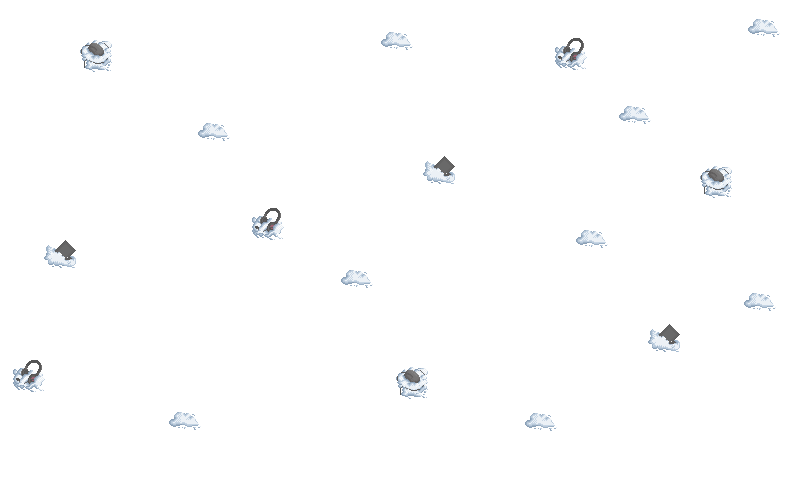
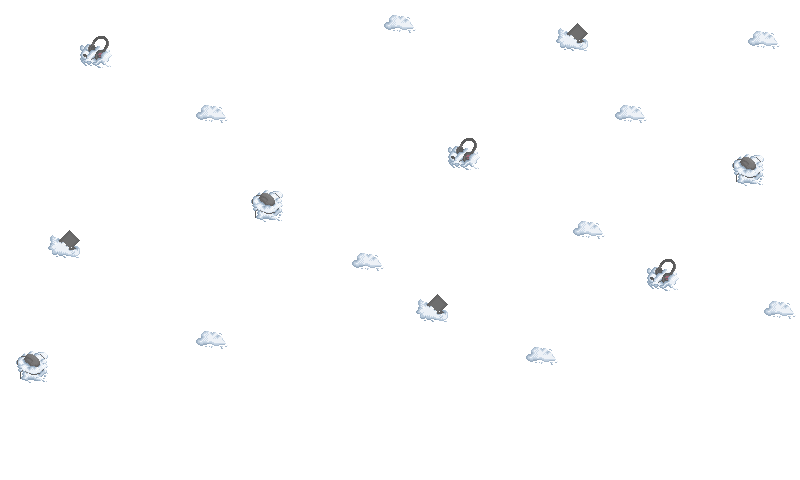
Flying obstacle and new backgrounds (not used yet)

diff --git a/core/src/fi/tamk/tiko/orion/sleeprunner/utilities/MapGenerator.java b/core/src/fi/tamk/tiko/orion/sleeprunner/utilities/MapGenerator.java
@@ -7,6 +7,7 @@ import com.badlogic.gdx.utils.Array;
 
 import fi.tamk.tiko.orion.sleeprunner.data.Constants;
 import fi.tamk.tiko.orion.sleeprunner.objects.FlyPowerUpObject;
+import fi.tamk.tiko.orion.sleeprunner.objects.FlyingSpikesObject;
 import fi.tamk.tiko.orion.sleeprunner.objects.GameObject;
 import fi.tamk.tiko.orion.sleeprunner.objects.GroundObject;
 import fi.tamk.tiko.orion.sleeprunner.objects.MaskPowerUpObject;
@@ -119,15 +120,42 @@ public class MapGenerator {
      *
      * @param grid The 2D integer map grid.
      * @param x    Current x position. (grid index)
+     * @return     True if the method NOT insert power up block.
      */
-    private static void generatePowerUpBlock( int[][] grid, int x ) {
-        // Random power up
-        int powerUp = MathUtils.random( 4, 6 );
-        // Random power ups y position.
-        int y = MathUtils.random( 5, 8 );
-        if ( isSymbolAtPosition( grid, Constants.EMPTY_BLOCK, x, y ) ) {
-            grid[ y ][ x ] = powerUp;
+    private static boolean generatePowerUpBlock( int[][] grid, int x ) {
+        int random = MathUtils.random( 0, 2 ); // Probability to get some power up.
+        if ( random == 0 ) {
+            // Random power up
+            int powerUp = MathUtils.random( 4, 6 );
+            // Random power ups y position.
+            int y = MathUtils.random( 5, 8 );
+            if ( isSymbolAtPosition( grid, Constants.EMPTY_BLOCK, x, y ) ) {
+                grid[ y ][ x ] = powerUp;
+                return false;
+            }
         }
+        return true;
+    }
+
+    /**
+     * Tries to generate flying spikes to the position.
+     *
+     * @param   grid  The 2D integer map grid.
+     * @param   x     Current x position. (grid index)
+     * @return        True if the method NOT insert flying spike block.
+     */
+    private static boolean generateFlyingSpikeBlock( int[][] grid, int x ) {
+        int random = MathUtils.random(0, 3); // Probability to get flying spikes.
+        if (random == 0) {
+            // Try to make spikes block. There must be ground block beneath.
+            if (isSymbolAtPosition(grid, Constants.GROUND_BLOCK, x, 0)) {
+                // Random the flying spikes y position.
+                int y = MathUtils.random( 3, 5 );
+                grid[y][x] = Constants.FLYING_SPIKES_BLOCK;
+                return false;
+            }
+        }
+        return true;
     }
 
     /**
@@ -137,7 +165,7 @@ public class MapGenerator {
      * @param x     Current x position. (grid index)
      */
     private static void generateSpikeBlock( int[][] grid, int x ) {
-        int random = MathUtils.random(0, 3); // Probability to get spikes. (Keep in mind empty blocks)
+        int random = MathUtils.random(0, 2); // Probability to get spikes. (Keep in mind empty blocks)
         if (random == 0) {
             // Try to make spikes block. There must be empty block.
             if (isSymbolAtPosition(grid, Constants.EMPTY_BLOCK, x, 0)) {
@@ -161,6 +189,7 @@ public class MapGenerator {
         boolean isFirstMapChunk = ( previousMapChunk == null );
         int[][] grid = new int[ Constants.CHUNK_MAX_TILES_HEIGHT ][ Constants.CHUNK_MAX_TILES_WIDTH ];
         int[] values = new int[] { mapChunk.getMinEmptyBlocks(), mapChunk.getMaxEmptyBlocks(), mapChunk.getMinGroundBlocks(), mapChunk.getMaxGroundBlocks() };
+        boolean canContainFlyingObstacle = mapChunk.canContainFlyingObstacle();
         boolean canContainPowerup = mapChunk.canContainPowerup();
         for ( int i = 0; i < Constants.CHUNK_MAX_TILES_WIDTH; i++ ) {
             if (isFirstMapChunk || mapChunk.getChunkNumber() % Constants.DIFFICULTY_CHANGE_INTERVAL == 0) {
@@ -177,9 +206,11 @@ public class MapGenerator {
             } else {
                 generateGroundBlock(grid, i, values[0], values[1], values[2], values[3]);
                 generateSpikeBlock(grid, i);
+                if ( canContainFlyingObstacle ) {
+                    canContainFlyingObstacle = generateFlyingSpikeBlock( grid, i );
+                }
                 if ( canContainPowerup ) {
-                    generatePowerUpBlock(grid, i);
-                    canContainPowerup = false;
+                    canContainPowerup = generatePowerUpBlock(grid, i);
                 }
             }
             // If previous map chunk ended with ground force empty block to this chunk's start.
@@ -264,6 +295,8 @@ public class MapGenerator {
             gameObject = new FlyPowerUpObject( world, centerX, centerY, meterWidth, meterHeight );
         } else if ( symbol == Constants.POWERUP_MASK_BLOCK ) {
             gameObject = new MaskPowerUpObject( world, centerX, centerY, meterWidth, meterHeight );
+        } else if ( symbol == Constants.FLYING_SPIKES_BLOCK ) {
+            gameObject = new FlyingSpikesObject( world, centerX, centerY, meterWidth, meterHeight );
         }
         return gameObject;
     }

diff --git a/core/src/fi/tamk/tiko/orion/sleeprunner/objects/FlyingSpikesObject.java b/core/src/fi/tamk/tiko/orion/sleeprunner/objects/FlyingSpikesObject.java
@@ -1,0 +1,60 @@
+package fi.tamk.tiko.orion.sleeprunner.objects;
+
+import com.badlogic.gdx.graphics.g2d.Batch;
+import com.badlogic.gdx.graphics.g2d.TextureRegion;
+import com.badlogic.gdx.math.Vector2;
+import com.badlogic.gdx.physics.box2d.BodyDef;
+import com.badlogic.gdx.physics.box2d.World;
+
+import fi.tamk.tiko.orion.sleeprunner.data.Constants;
+import fi.tamk.tiko.orion.sleeprunner.data.UserData;
+
+/**
+ * Spikes game object, its width is random.
+ */
+public class FlyingSpikesObject extends GameObject {
+
+    /**
+     * Texture for flying spike obstacle.
+     */
+
+    public static final TextureRegion FLYING_SPIKE_TEXTURE = Constants.TILESET_SPRITES[3][2];
+
+    private Vector2 flyingSpikeSpeed = new Vector2(-3.5f, 0);
+
+    /**
+     * Constructor for SpikesObject.
+     *
+     * @param world          Box2D World
+     * @param x              X-position.
+     * @param y              Y-position.
+     * @param width          Width of the body.
+     * @param height         Height of the body.
+     */
+    public FlyingSpikesObject(World world, float x, float y, float width, float height) {
+        super(world, x, y, width, height, 0f, FLYING_SPIKE_TEXTURE, BodyDef.BodyType.KinematicBody, new UserData("FLYING_SPIKES"));
+    }
+
+    @Override
+    public void update(float delta) {
+        body.setLinearVelocity(flyingSpikeSpeed);
+    }
+
+    @Override
+    public void draw( Batch batch ) {
+        float half = Constants.WORLD_TO_SCREEN/100f/2;
+        float x = body.getPosition().x - half;
+        float y = body.getPosition().y - half;
+        batch.draw(textureRegion,
+                x,
+                y,
+                Constants.WORLD_TO_SCREEN / 2,
+                Constants.WORLD_TO_SCREEN / 2,
+                Constants.WORLD_TO_SCREEN / 100f,
+                Constants.WORLD_TO_SCREEN / 100f,
+                1.0f,
+                1.0f,
+                0);
+    }
+
+}

diff --git a/core/src/fi/tamk/tiko/orion/sleeprunner/utilities/MapChunk.java b/core/src/fi/tamk/tiko/orion/sleeprunner/utilities/MapChunk.java
@@ -29,6 +29,7 @@ public class MapChunk {
 
     private String sleepStage = "REM";
     private boolean canContainPowerup;
+    private boolean canContainFlyingObstacle;
     private int chunkNumber;
     private int position;
 
@@ -46,6 +47,7 @@ public class MapChunk {
         this.position = position;
         this.chunkNumber = chunkNumber;
         this.canContainPowerup = ( this.chunkNumber % 4 == 0 );
+        this.canContainFlyingObstacle = ( this.chunkNumber % 3 == 0 );
         // Note that first MapChunk uses start values, others calculate them by method below.
         calculateValues();
         this.grid = MapGenerator.generateMapChunkGrid( this );
@@ -81,7 +83,8 @@ public class MapChunk {
     public void clearGameObject( String id ) {
         for ( GameObject gameObject : gameObjects) {
             if ( gameObject.getUserData().id.equals( id ) ) {
-                removalGameObjects.add( gameObject );
+                // This caused the game to crash?
+                //removalGameObjects.add( gameObject );
             }
         }
     }
@@ -188,6 +191,7 @@ public class MapChunk {
     public int getMaxEmptyBlocks( ) { return maxEmptyBlocks; }
     public int getMinEmptyBlocks( ) { return minEmptyBlocks; }
 
+    public boolean canContainFlyingObstacle( ) { return canContainFlyingObstacle; }
     public boolean canContainPowerup( ) { return canContainPowerup; }
     public Array<GameObject> getGameObjects( ) { return gameObjects; }
     public MapChunk getPreviousMapChunk( ) { return previousMapChunk; }

diff --git a/core/src/fi/tamk/tiko/orion/sleeprunner/screens/GameScreen.java b/core/src/fi/tamk/tiko/orion/sleeprunner/screens/GameScreen.java
@@ -561,7 +561,6 @@ public class GameScreen extends InputAdapter implements Screen, ContactListener 
         // Player to spikes collision check.
         if ((BodyUtils.bodyHasID(a, "PLAYER") && BodyUtils.bodyHasID(b, "SPIKES")) ||
                 (BodyUtils.bodyHasID(b, "PLAYER") && BodyUtils.bodyHasID(a, "SPIKES")) ) {
-            Gdx.app.log( "GameScreen", "Player hit spikes!");
             player.hit();
             player.pauseAnimation();
         }
@@ -611,6 +610,15 @@ public class GameScreen extends InputAdapter implements Screen, ContactListener 
                 (BodyUtils.bodyHasID(b, "PLAYER") && BodyUtils.bodyHasID(a, "MASK")) ) {
             contact.setEnabled( false );
             currentMapChunk.clearGameObject( "MASK" );
+        }
+
+        // Player to flying spikes collision check.
+        if ((BodyUtils.bodyHasID(a, "PLAYER") && BodyUtils.bodyHasID(b, "FLYING_SPIKES")) ||
+                (BodyUtils.bodyHasID(b, "PLAYER") && BodyUtils.bodyHasID(a, "FLYING_SPIKES")) ) {
+            contact.setEnabled( false );
+            Gdx.app.log( "GameScreen", "Hit flying spikes!" );
+            nightmare.moveForward();
+            uiStage.moveNightmareMeter();
         }
 
     }

diff --git a/core/src/fi/tamk/tiko/orion/sleeprunner/data/Constants.java b/core/src/fi/tamk/tiko/orion/sleeprunner/data/Constants.java
@@ -55,6 +55,7 @@ public class Constants {
     public static final int POWERUP_SHIELD_BLOCK = 4;
     public static final int POWERUP_FLY_BLOCK = 5;
     public static final int POWERUP_MASK_BLOCK = 6;
+    public static final int FLYING_SPIKES_BLOCK = 7;
 
     public static final int DIFFICULTY_CHANGE_INTERVAL = 6;
 
